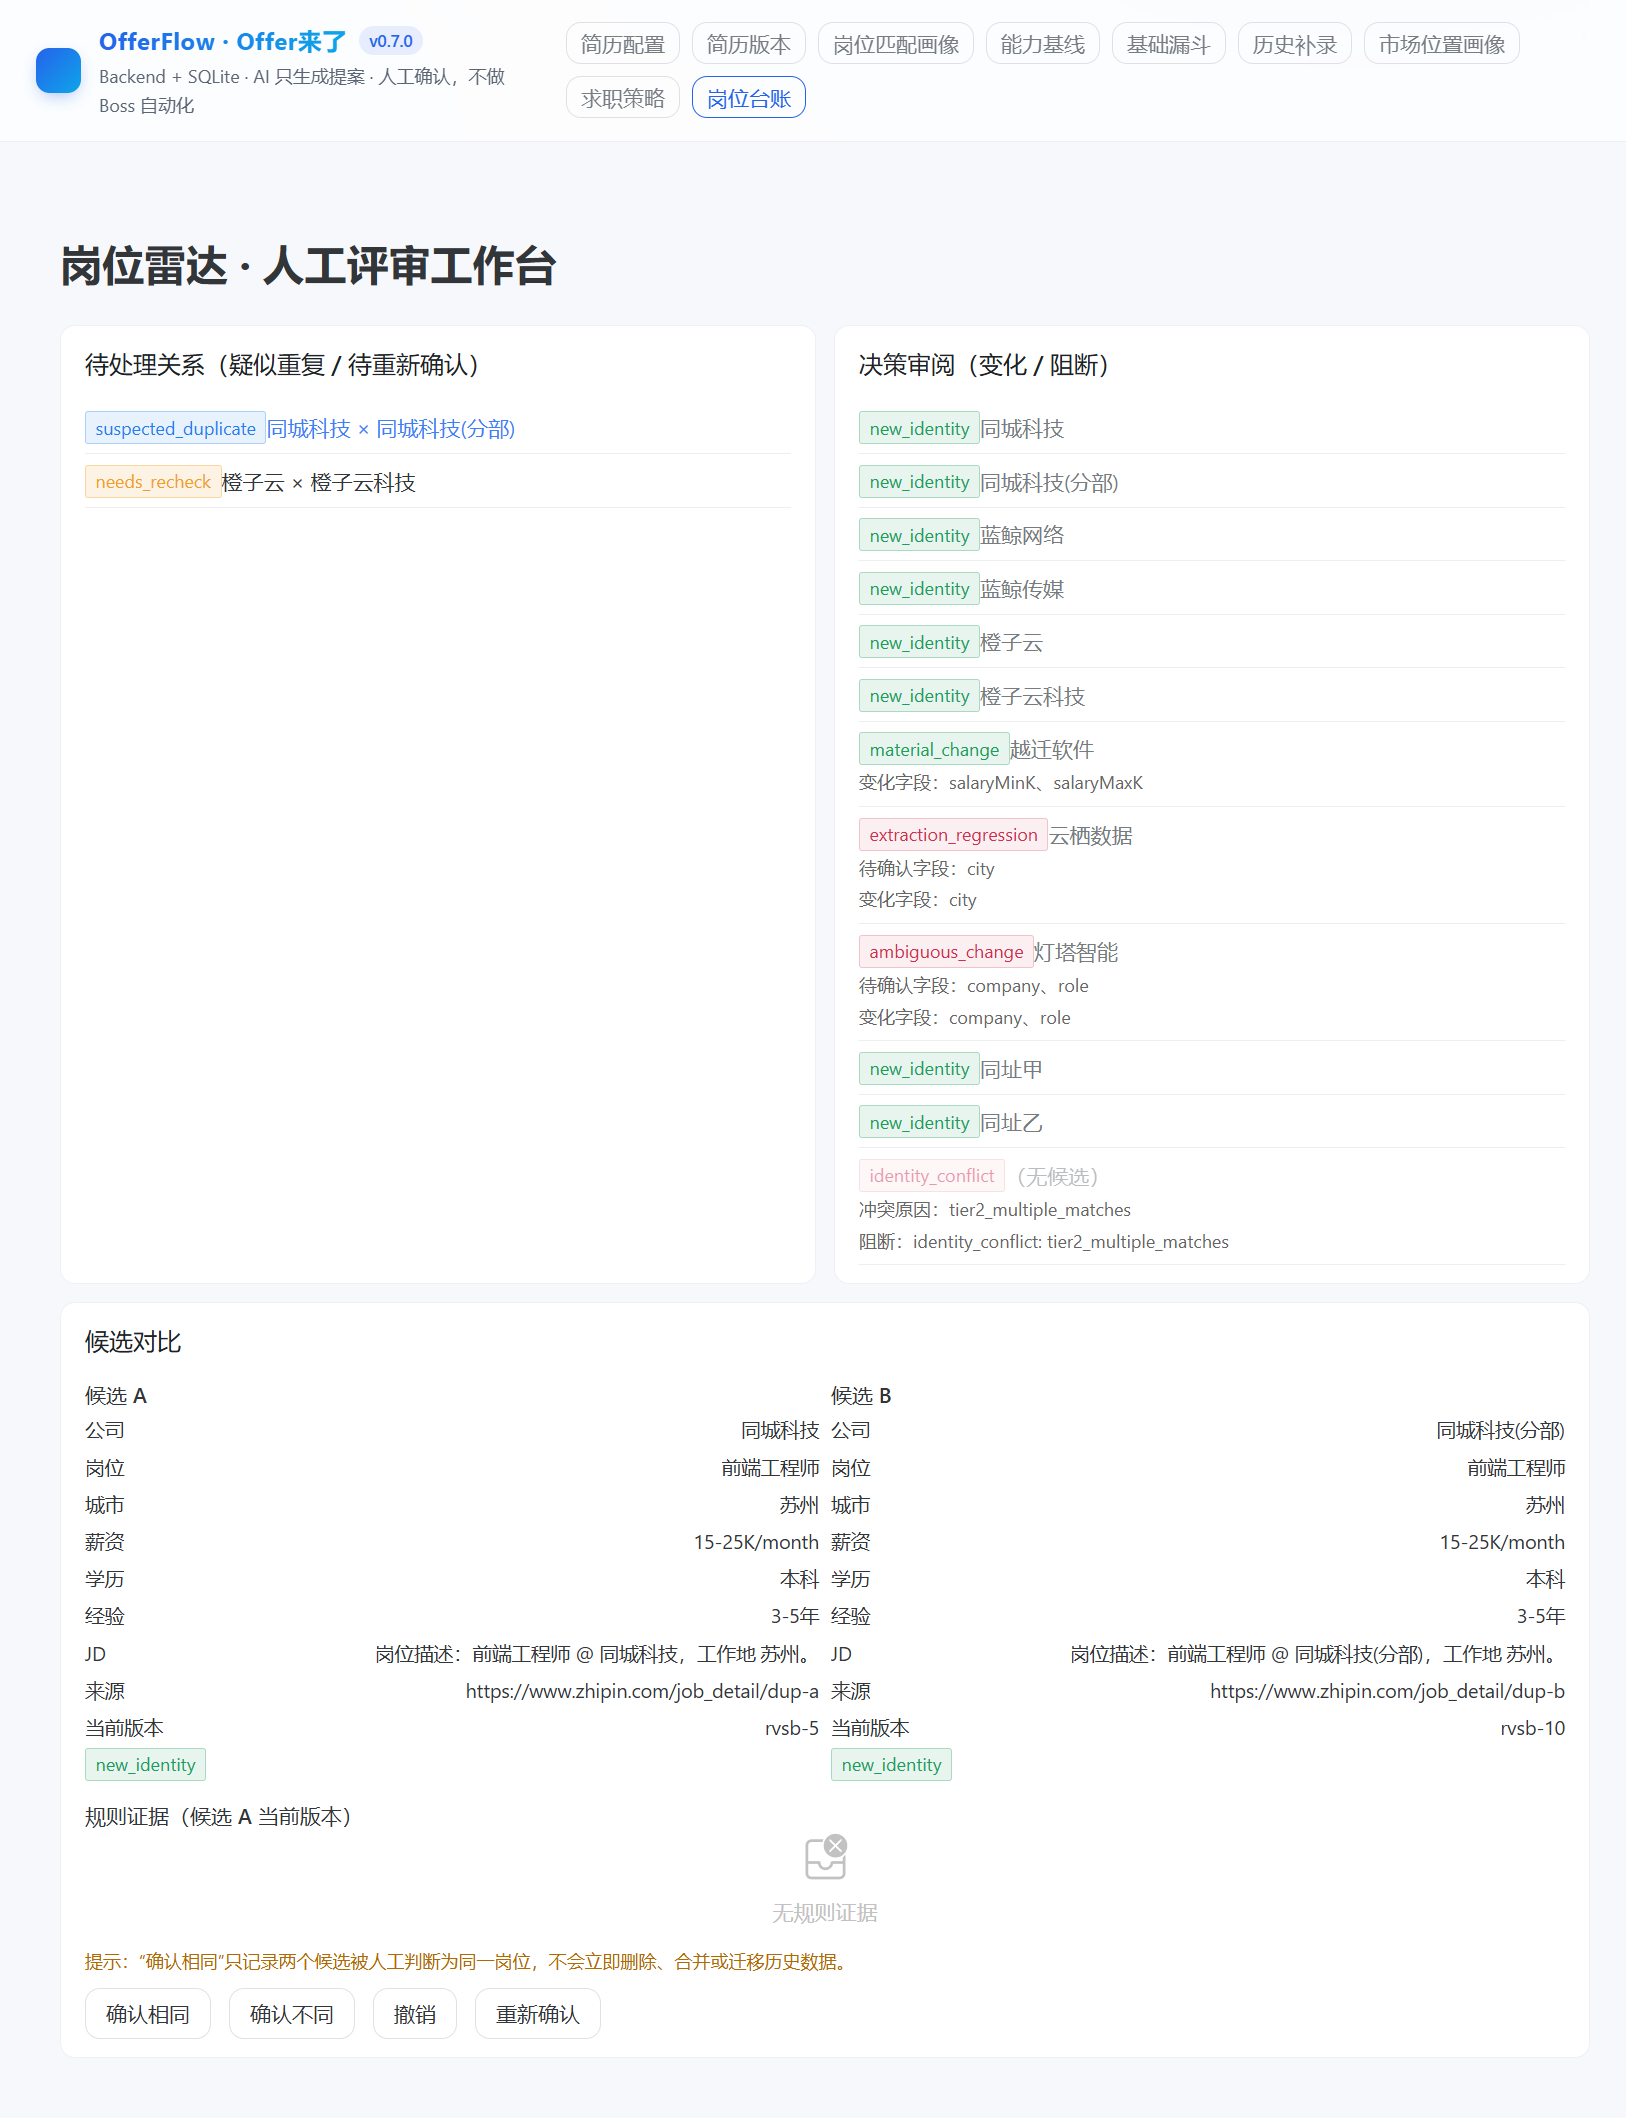
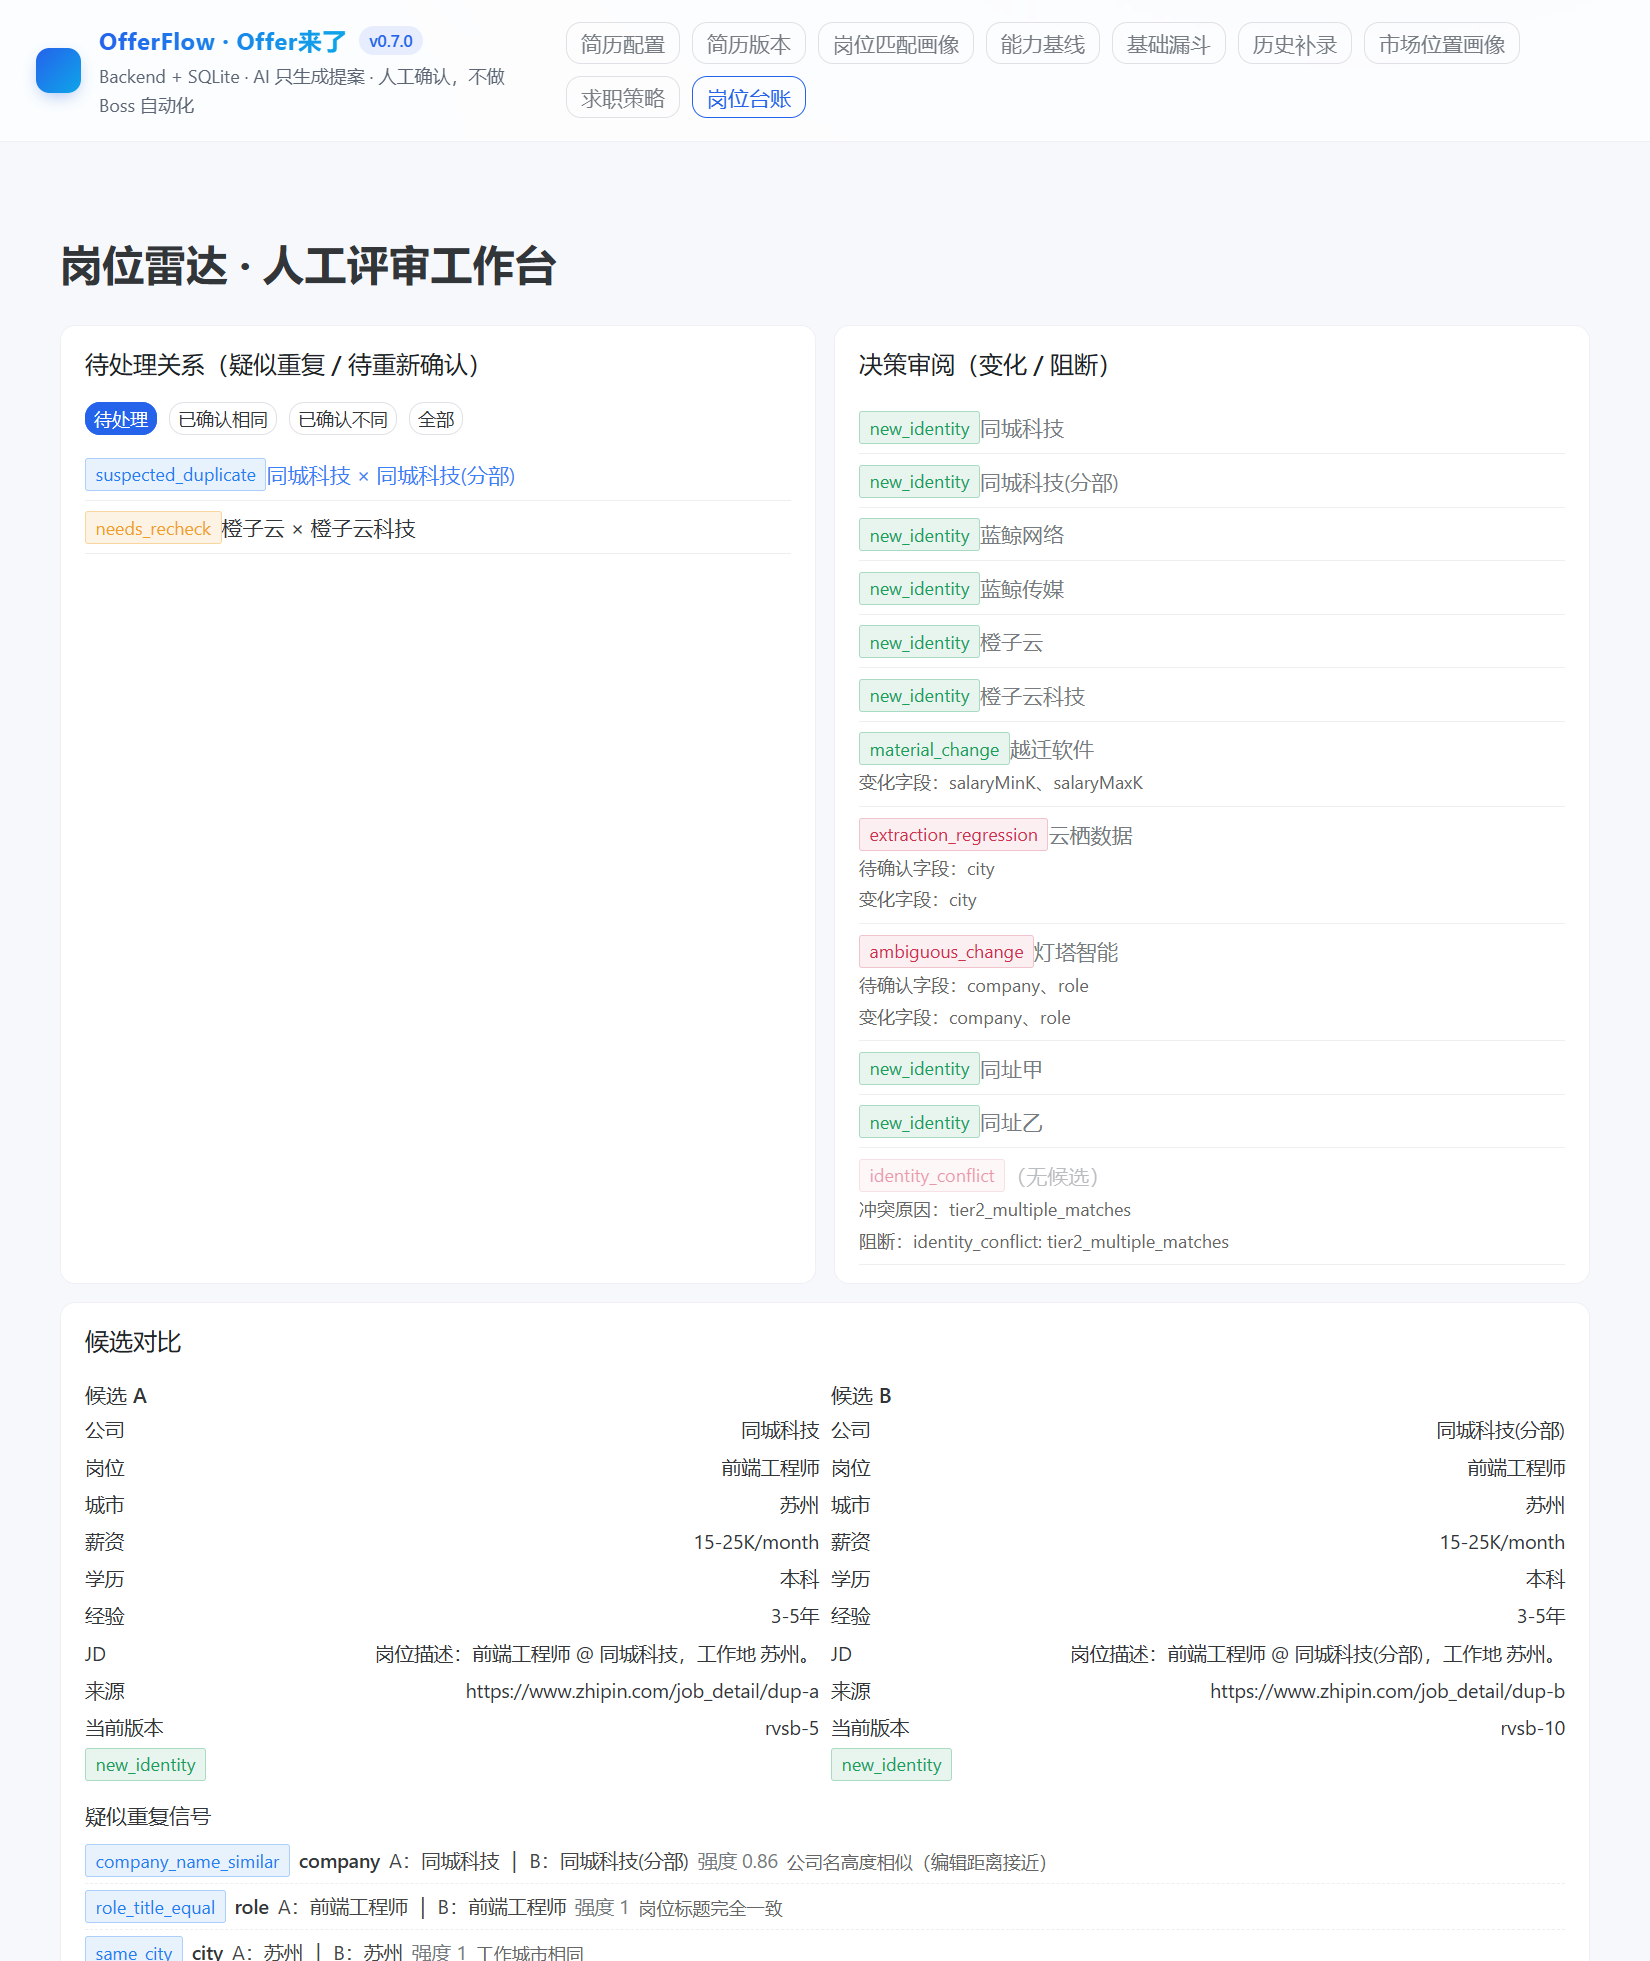
文档：更新 V8-3 人工验收待复核证据
- 更新为结构化 signals 与历史审计可见后的 v2 证据：MA-01 展示 4 条疑似重复信号
  （signalType/field/双方值/strength/explanation），MA-02 从「已确认不同」重开
  confirmed_distinct 详情（用户裁决原因 + duplicate_rejected 审计时间线），MA-04 以
  salary_ceiling（rvsb-77）override set→revert（none→pass→none）呈现且原评估不可变。
- 四张截图来自独立临时 schema v8 证据 sandbox（端口 17395/17396，全新库、确定性 fixture、
  与生产库完全隔离）；时间为确定性 fixture 时钟，仅供可重复验收，不代表真实生产时间。
- 删除与当前实现矛盾的旧证据截图（旧 fixture / 无 signals UI）：
  v8-3-ma-02-list-after-confirm-distinct.png、v8-3-ma-04-rule-evidence-override.png
  （git 历史仍保留，当前文档无引用）。
- audit JSON 区分 sandbox（schema 8，0/0/0）与生产（schema 7，15/9/11），passed=null。

冻结口径不变：V8-3 = IMPLEMENTATION COMPLETE / MANUAL ACCEPTANCE PENDING；
用户最终外部复核仍待完成；RC-05 / RC-06 继续为 Partial；
生产数据库仍为 schema v7；Radar 正式入口仍关闭。

diff --git a/docs/evidence/offerflow-v0.8-v8-3-manual-acceptance-pending.md b/docs/evidence/offerflow-v0.8-v8-3-manual-acceptance-pending.md
@@ -1,4 +1,4 @@
-# V8-3 人工评审工作台 · 人工验收证据（待用户复核）
+# V8-3 人工评审工作台 · 人工验收证据（待用户复核）· v2
 
 **状态：EVIDENCE CAPTURED / USER REVIEW PENDING**
 
@@ -12,96 +12,91 @@
 - schema v8 = IMPLEMENTED IN CODE / NOT ACTIVATED IN PRODUCTION
 - 生产 schema = v7；Radar 正式入口 = DISABLED
 
+## v2 修订说明（相对上一版证据）
+
+上一版证据基于旧 fixture，且记载“工作台 UI 无独立 signals 字段”。本轮功能提交后：
+
+- 工作台**已渲染**结构化「疑似重复信号」区（signalType / field / 双方值 / strength / explanation），
+  故 MA-01 截图与描述据实更新，旧“无 signals 字段”表述作废。
+- MA-02 改为从「已确认不同」筛选重开 `rvsb-22` 详情，展示用户裁决原因 + 裁决审计时间线
+  （文件名 `v8-3-ma-02-confirmed-distinct-detail.png`）。
+- MA-04 override 审计目标为专用评估 `rvsb-77`（salary_ceiling），set→revert 终态 none
+  （文件名 `v8-3-ma-04-rule-evidence-override-audit.png`）。
+- 所有数值取自本轮运行中的 v2 证据 sandbox 只读查询与生产库只读核验，未沿用旧值。
+
 ## 采集环境
 
-- 入口：受控评审沙箱 `#/radar/review`（flag 打开、schema v8 临时库，非生产）
-- 生产数据库仅进行只读核验，未执行任何写入
-- 关联标识：relation `rvsb-11`；candidate `rvsb-5` / `rvsb-10`；
-  material 候选版本 `rvsb-44`；override 评估 `rvsb-76`（education_floor）
+- 入口：受控评审沙箱 `#/radar/review`（flag 打开、schema v8 临时库，非生产，端口 17395/17396）
+- 全新独立临时 v8 库，重新 seed 同一确定性 fixture（ID 前缀 `rvsb-*`），与生产库完全隔离
+- 生产数据库仅只读核验，未执行任何写入
+- 时间来自确定性 fixture 时钟，仅用于可重复验收，不代表真实生产时间（UI 显示 1970 属预期）
 
-## 截图落盘情况（如实）
+## 截图落盘清单
 
-截图来自两处，须区分：
+| 文件 | 覆盖 | 说明 |
+|---|---|---|
+| `v8-3-ma-01-duplicate-comparison.png` | MA-01 | suspected_duplicate 并排对比 + 4 条结构化信号 + 确认相同/确认不同 |
+| `v8-3-ma-02-confirmed-distinct-detail.png` | MA-02 | confirmed_distinct 详情：用户原因 + 裁决审计时间线（重开自筛选） |
+| `v8-3-ma-03-change-and-conflict.png` | MA-03 | material_change 变化字段 + identity_conflict 内联冲突/阻断 |
+| `v8-3-ma-04-rule-evidence-override-audit.png` | MA-04 | 规则证据三态 + salary_ceiling override set→revert 审计 |
 
-- **当前验收 sandbox**（承载真实验收痕迹：rvsb-11=confirmed_distinct、三条 RadarAction）：MA-02 / MA-03 / MA-04 三张
-- **独立证据专用 sandbox**（全新临时 v8 库、重新 seed 同一确定性 fixture、与验收 sandbox 及生产库完全隔离、截图后停止并清理临时库）：MA-01 一张
+**保持 USER REVIEW PENDING 的瞬时态（不伪造重建）：** 提交成功 toast、二次确认弹窗等交互瞬时态
+未持久化为截图，其结果由数据库审计动作交叉佐证（见审计 JSON）。
 
-MA-01 原图在会话内曾生成但**未持久化**，且验收 sandbox 中该关系已 confirmed_distinct 移出默认列表、UI 无历史视图，无法在不改验收数据下重开，故按边界在独立证据 sandbox 重现补拍（未修改验收 sandbox、未连接生产库）。
-
-| 文件 | 覆盖 | 来源 | 说明 |
-|---|---|---|---|
-| `v8-3-ma-01-duplicate-comparison.png` | MA-01 | 证据 sandbox | suspected_duplicate 并排对比 + 全字段 + 确认相同/确认不同按钮 |
-| `v8-3-ma-02-list-after-confirm-distinct.png` | MA-02 终态 | 验收 sandbox | 待处理列表仅剩 needs_recheck（suspected 已移除，刷新后保持） |
-| `v8-3-ma-03-change-and-conflict.png` | MA-03 | 验收 sandbox | material_change 变化字段 + identity_conflict 内联冲突/阻断 |
-| `v8-3-ma-04-rule-evidence-override.png` | MA-04 | 验收 sandbox | 规则证据三态 + override 标签（education_floor 撤销后 none 终态） |
-
-**仍未持久化 / 保持 USER REVIEW PENDING 的中间态截图（瞬时态，不伪造重建）：**
-- MA-02「确认不同已完成」toast + 填原因二次确认弹窗
-- MA-04 override 设置/撤销的成功 toast 与 none→pass→none 过程弹窗
-
-以上瞬时态在交互会话中实际出现过，其结果以数据库审计动作交叉佐证（见审计 JSON）。
-
-> 关于 signals：当前工作台 UI 未渲染独立的 “signals” 字段（组件/fixture/API 均无该字段）；
-> 岗位识别信号通过 decisionType 标签（如 new_identity）与关系状态呈现，MA-01 截图已含这些标签。
-
-## MA-01 疑似重复对比
+## MA-01 疑似重复对比与结构化信号
 
 - suspected_duplicate 候选对：`rvsb-5`（同城科技）× `rvsb-10`（同城科技(分部)）
-- 两侧字段：公司 / 岗位（前端工程师）/ 城市（苏州）/ 薪资（15-25K/month）/ 学历（本科）/ 经验（3-5年）
-- decisionType 标签（new_identity）与 suspected_duplicate 状态可见
-- 「确认相同」「确认不同」按钮均可用（截图含底部动作区）
-- 截图：`v8-3-ma-01-duplicate-comparison.png`（独立证据 sandbox 补拍，非验收 sandbox）
-- signals 非工作台独立 UI 字段（见上方说明）
+- 两侧全字段：公司 / 岗位（前端工程师）/ 城市（苏州）/ 薪资（15-25K/month）/ 学历（本科）/ 经验（3-5年）
+- 结构化「疑似重复信号」4 条（signalType · field · A/B 值 · 强度 · 说明）：
+  - `company_name_similar` · company · 同城科技 ｜ 同城科技(分部) · 0.86 · 公司名高度相似
+  - `role_title_equal` · role · 前端工程师 ｜ 前端工程师 · 1 · 岗位标题完全一致
+  - `same_city` · city · 苏州 ｜ 苏州 · 1 · 工作城市相同
+  - `same_salary_range` · salary · 15-25K/月 ｜ 15-25K/月 · 1 · 薪资区间相同
+- 「确认相同」「确认不同」按钮均可用
 
-## MA-02 确认不同（confirmed_distinct）
+## MA-02 确认不同（confirmed_distinct）详情
 
-- 用户原因：`两家为不同法人主体，虽同名但注册地与招聘主体不同`
-- 关系终态：`confirmed_distinct`（relation `rvsb-11`）
-- RadarAction：`duplicate_rejected` @ `1784786712509`
-- 提交后移出默认待处理列表；刷新后仍保持（截图：`v8-3-ma-02-list-after-confirm-distinct.png`）
-- 成功 toast 与二次确认弹窗为瞬时态，未持久化 → PENDING
+- 关系 `rvsb-22`：`rvsb-15`（蓝鲸网络）× `rvsb-20`（蓝鲸传媒），终态 `confirmed_distinct`
+- 用户裁决原因：`两家为不同法人主体，虽同名但注册地与招聘主体不同`
+- 裁决审计时间线：`确认不同 → confirmed_distinct`（RadarAction `duplicate_rejected`）
+- 已移出默认待处理列表，经「已确认不同」筛选可重开并保持
 
 ## MA-03 变化与冲突
 
 - material_change（候选版本 `rvsb-44`）changedFields：
-  - `salaryMinK` 15 → 20（classification：changed_fact / value_changed）
-  - `salaryMaxK` 25 → 35（classification：changed_fact / value_changed）
+  - `salaryMinK` 15 → 20（changed_fact / value_changed）
+  - `salaryMaxK` 25 → 35（changed_fact / value_changed）
 - identity_conflict：冲突原因 `tier2_multiple_matches`；阻断 `identity_conflict: tier2_multiple_matches`
   （该 feed 项无候选、打开按钮禁用，属设计预期）
-- 截图：`v8-3-ma-03-change-and-conflict.png`
 
-## MA-04 规则证据与 override
+## MA-04 规则证据三态与 override 审计
 
-- RuleEvidence 三态：`structured`（salary_floor / education_floor）、`legacy_scalar`（city_whitelist）、
-  `corrupt`（commute_radius，损坏原因：evidence_json 未通过契约校验）
-- structured 字段可见：rawValue（原值 20）、normalizedValue（规范化 20）、confidence（置信度 0.92）、
-  excerpt（摘要）、explanation（说明）
-- override：`education_floor`（评估 `rvsb-76`）none → pass → none
-  - `rule_override_set` @ `1784786791559`
-  - `rule_override_reverted` @ `1784786843660`
[1 lines of base64/hex data omitted]
-- 截图：`v8-3-ma-04-rule-evidence-override.png`（override 撤销后 none 终态；过程弹窗为瞬时态 → PENDING）
+- RuleEvidence 三态：`structured`（salary_floor `rvsb-71`，sha256 `357bcdec…`）、
+  `legacy_scalar`（city_whitelist `rvsb-72`，evidence_json NULL）、
+  `corrupt`（commute_radius `rvsb-73`，sha256 `55ac744f…`，损坏原因：evidence_json 未通过契约校验）
+- override 审计目标：`salary_ceiling`（评估 `rvsb-77`）none → pass → none
+  - `rule_override_set`：原因「经复核该薪资上限可接受」
+  - `rule_override_reverted`：原因「策略调整，恢复规则默认判定」
+- 原 RuleAssessment 保持不变：result=`hit`，evidence_json sha256 `e7f8489accdb…`
+  （明示“原始规则评估未被覆盖操作修改（覆盖仅追加审计事件）”）
 
 ## 数据不变量（只读核验）
 
-两套数据库须分开表述，切勿混淆：
-
 ### 人工验收 sandbox（schema v8，会话级临时库，非生产）
 
-- 验收前后 jobs = 0；applications = 0；feedback_events = 0
-- 人工评审操作没有创建正式 Job / Application / FeedbackEvent
-- Candidate 未被 confirmed_same 物理合并（candidates = 11 未减少）
-- 原 RuleAssessment 未被 UPDATE 或删除
+- jobs = 0；applications = 0；feedback_events = 0（评审未创建正式记录）
+- candidates = 11 未减少（confirmed_same 不物理合并）；candidate_versions = 12；rule_assessments = 6
+- 原 RuleAssessment 未被 UPDATE 或删除（E2E 全表行签名断言佐证）
 
 ### 真实生产数据库（`data/offerflow.sqlite3`，仅只读核验）
 
-- schema version = 7
+- schema version = 7（schema_migrations MAX 与 app_meta.schema_version 一致）
 - jobs = 15；applications = 9；feedback_events = 11
-- 原有数据行数未变化；未执行 migration；未发生写入
-- 仅进行只读核验，未执行任何写入
+- `radar_candidate_relations` 表不存在（v8 relations schema 未激活）
+- 未执行 migration；未发生写入；仅只读核验
 
 ## 待办
 
 用户复核上述截图与审计 JSON 后，方可决定是否推进 V8-3 / RC-05 / RC-06 状态。
-在此之前一律保持 Partial / PENDING。审计明细见
+在此之前一律保持 Partial / PENDING（`passed=null`）。审计明细见
 [offerflow-v0.8-v8-3-manual-acceptance-audit.json](offerflow-v0.8-v8-3-manual-acceptance-audit.json)。
